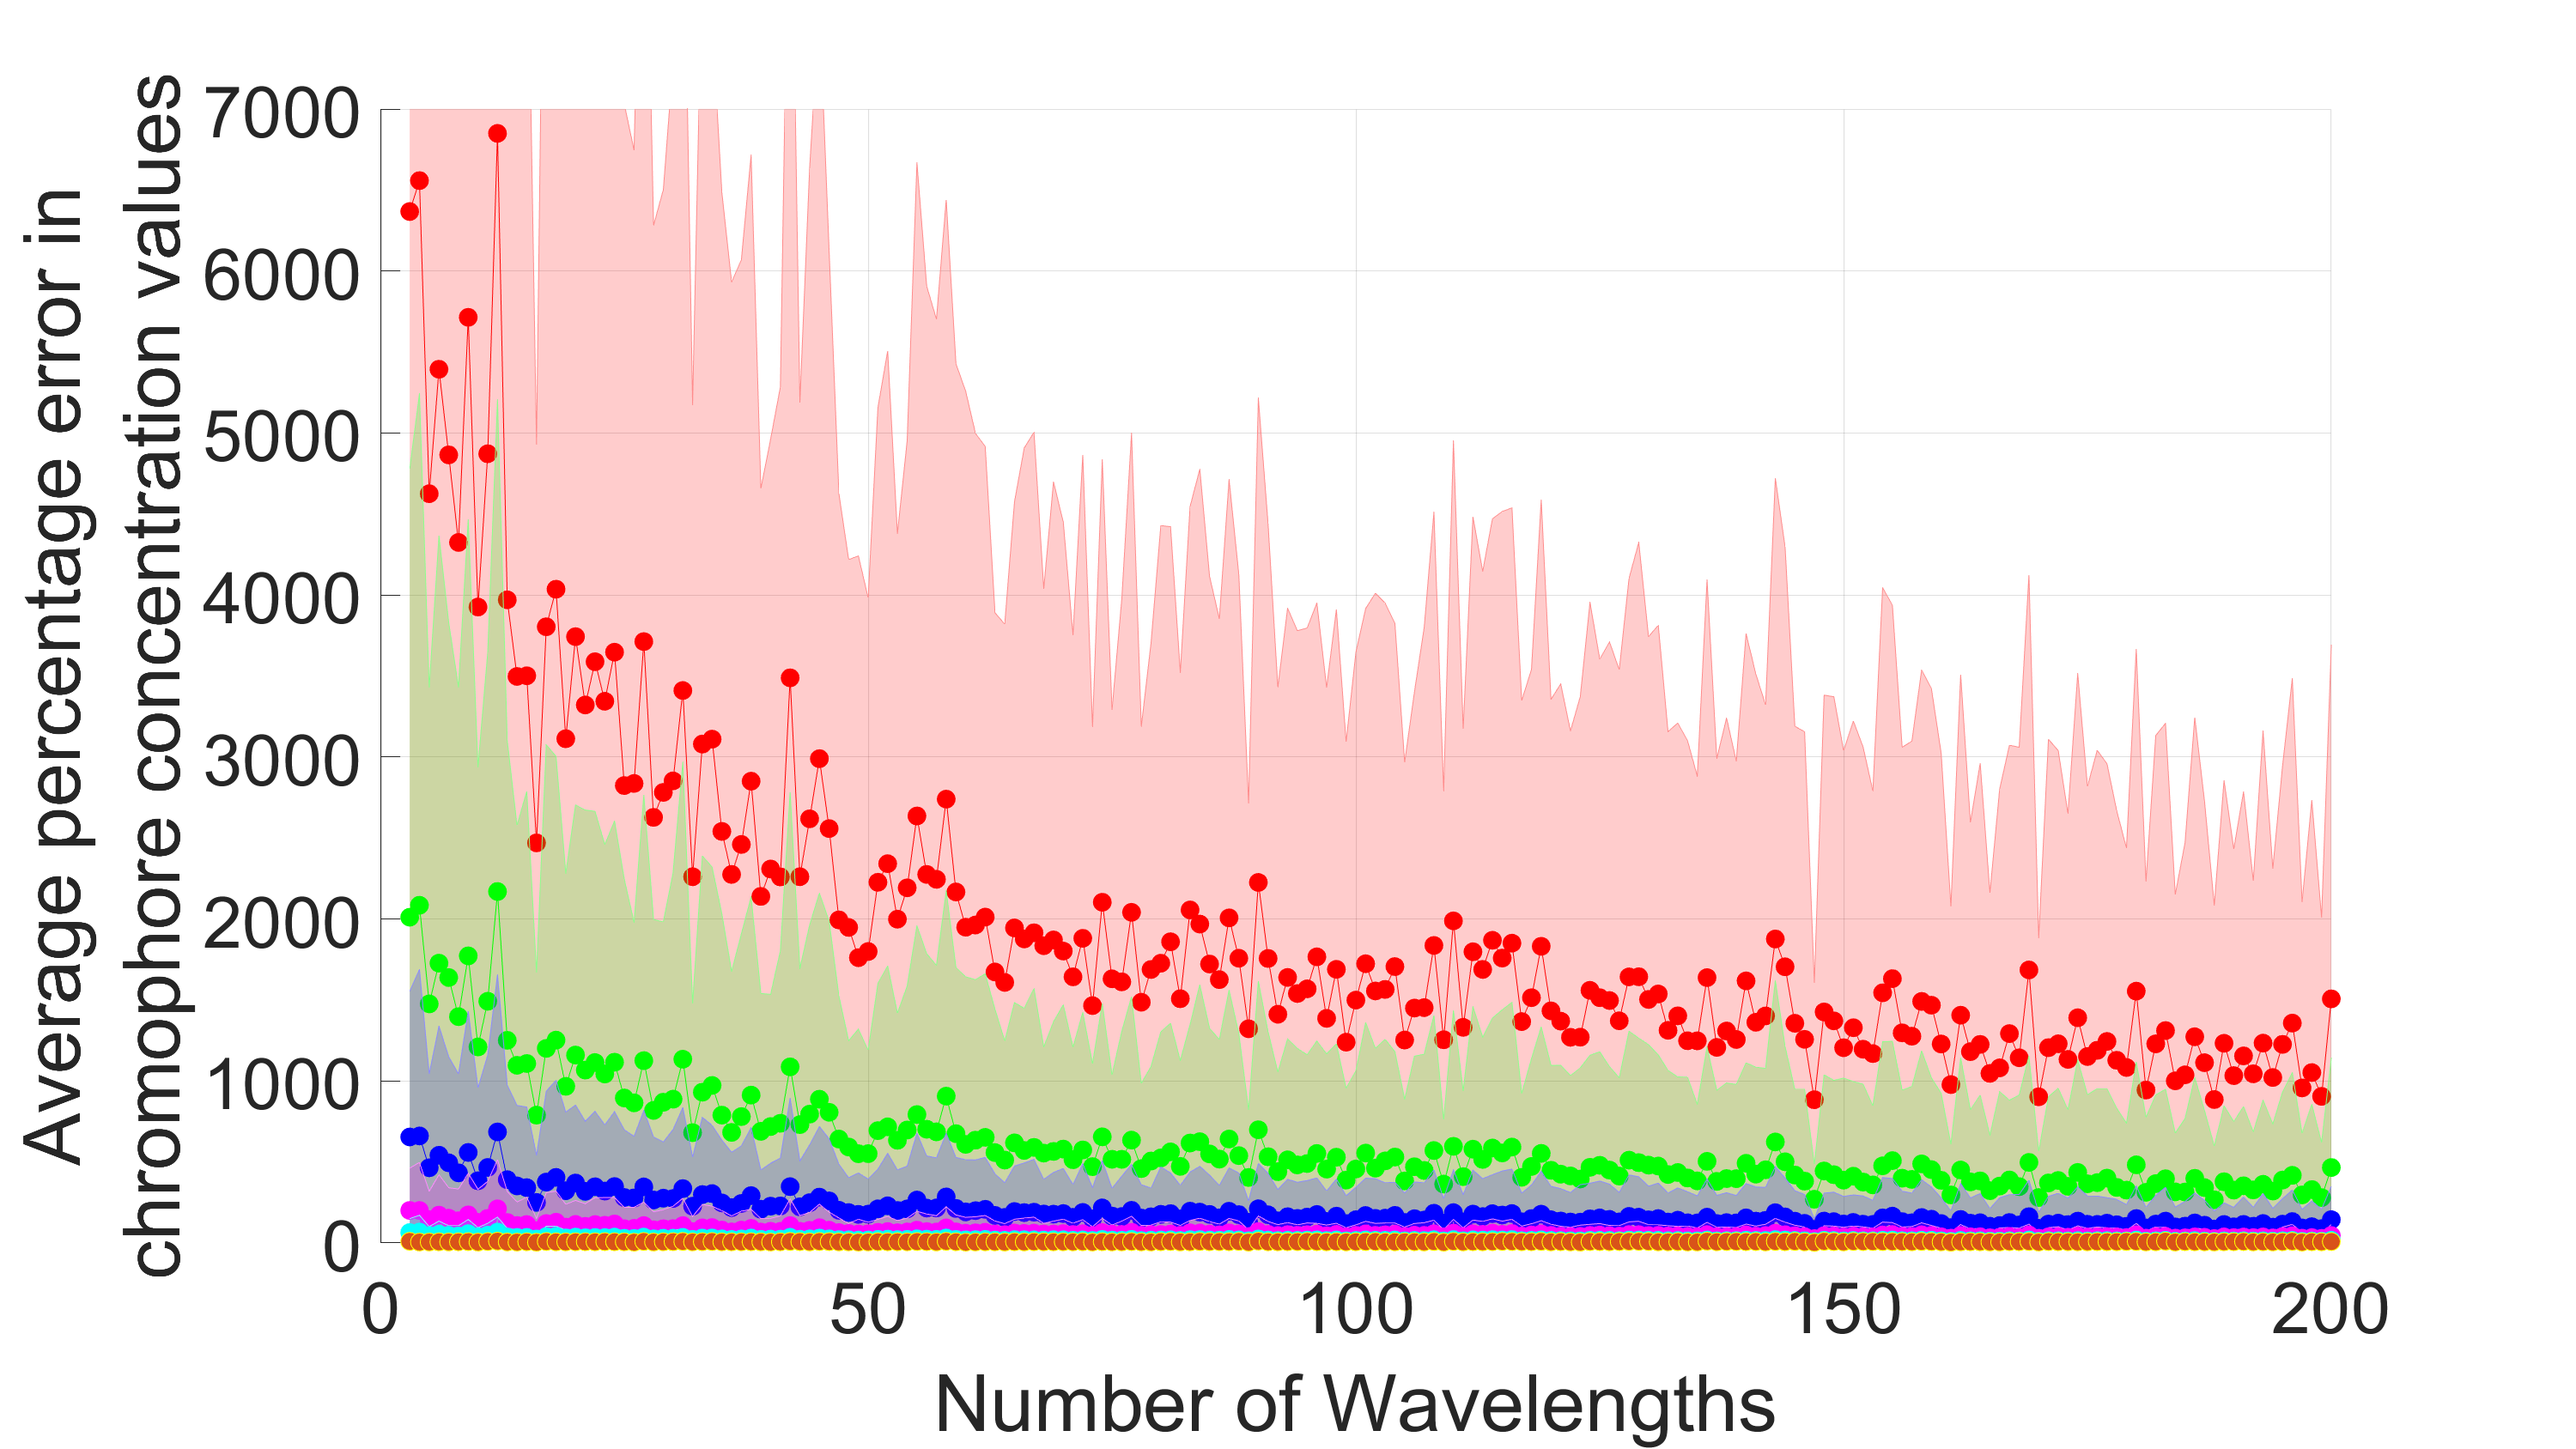
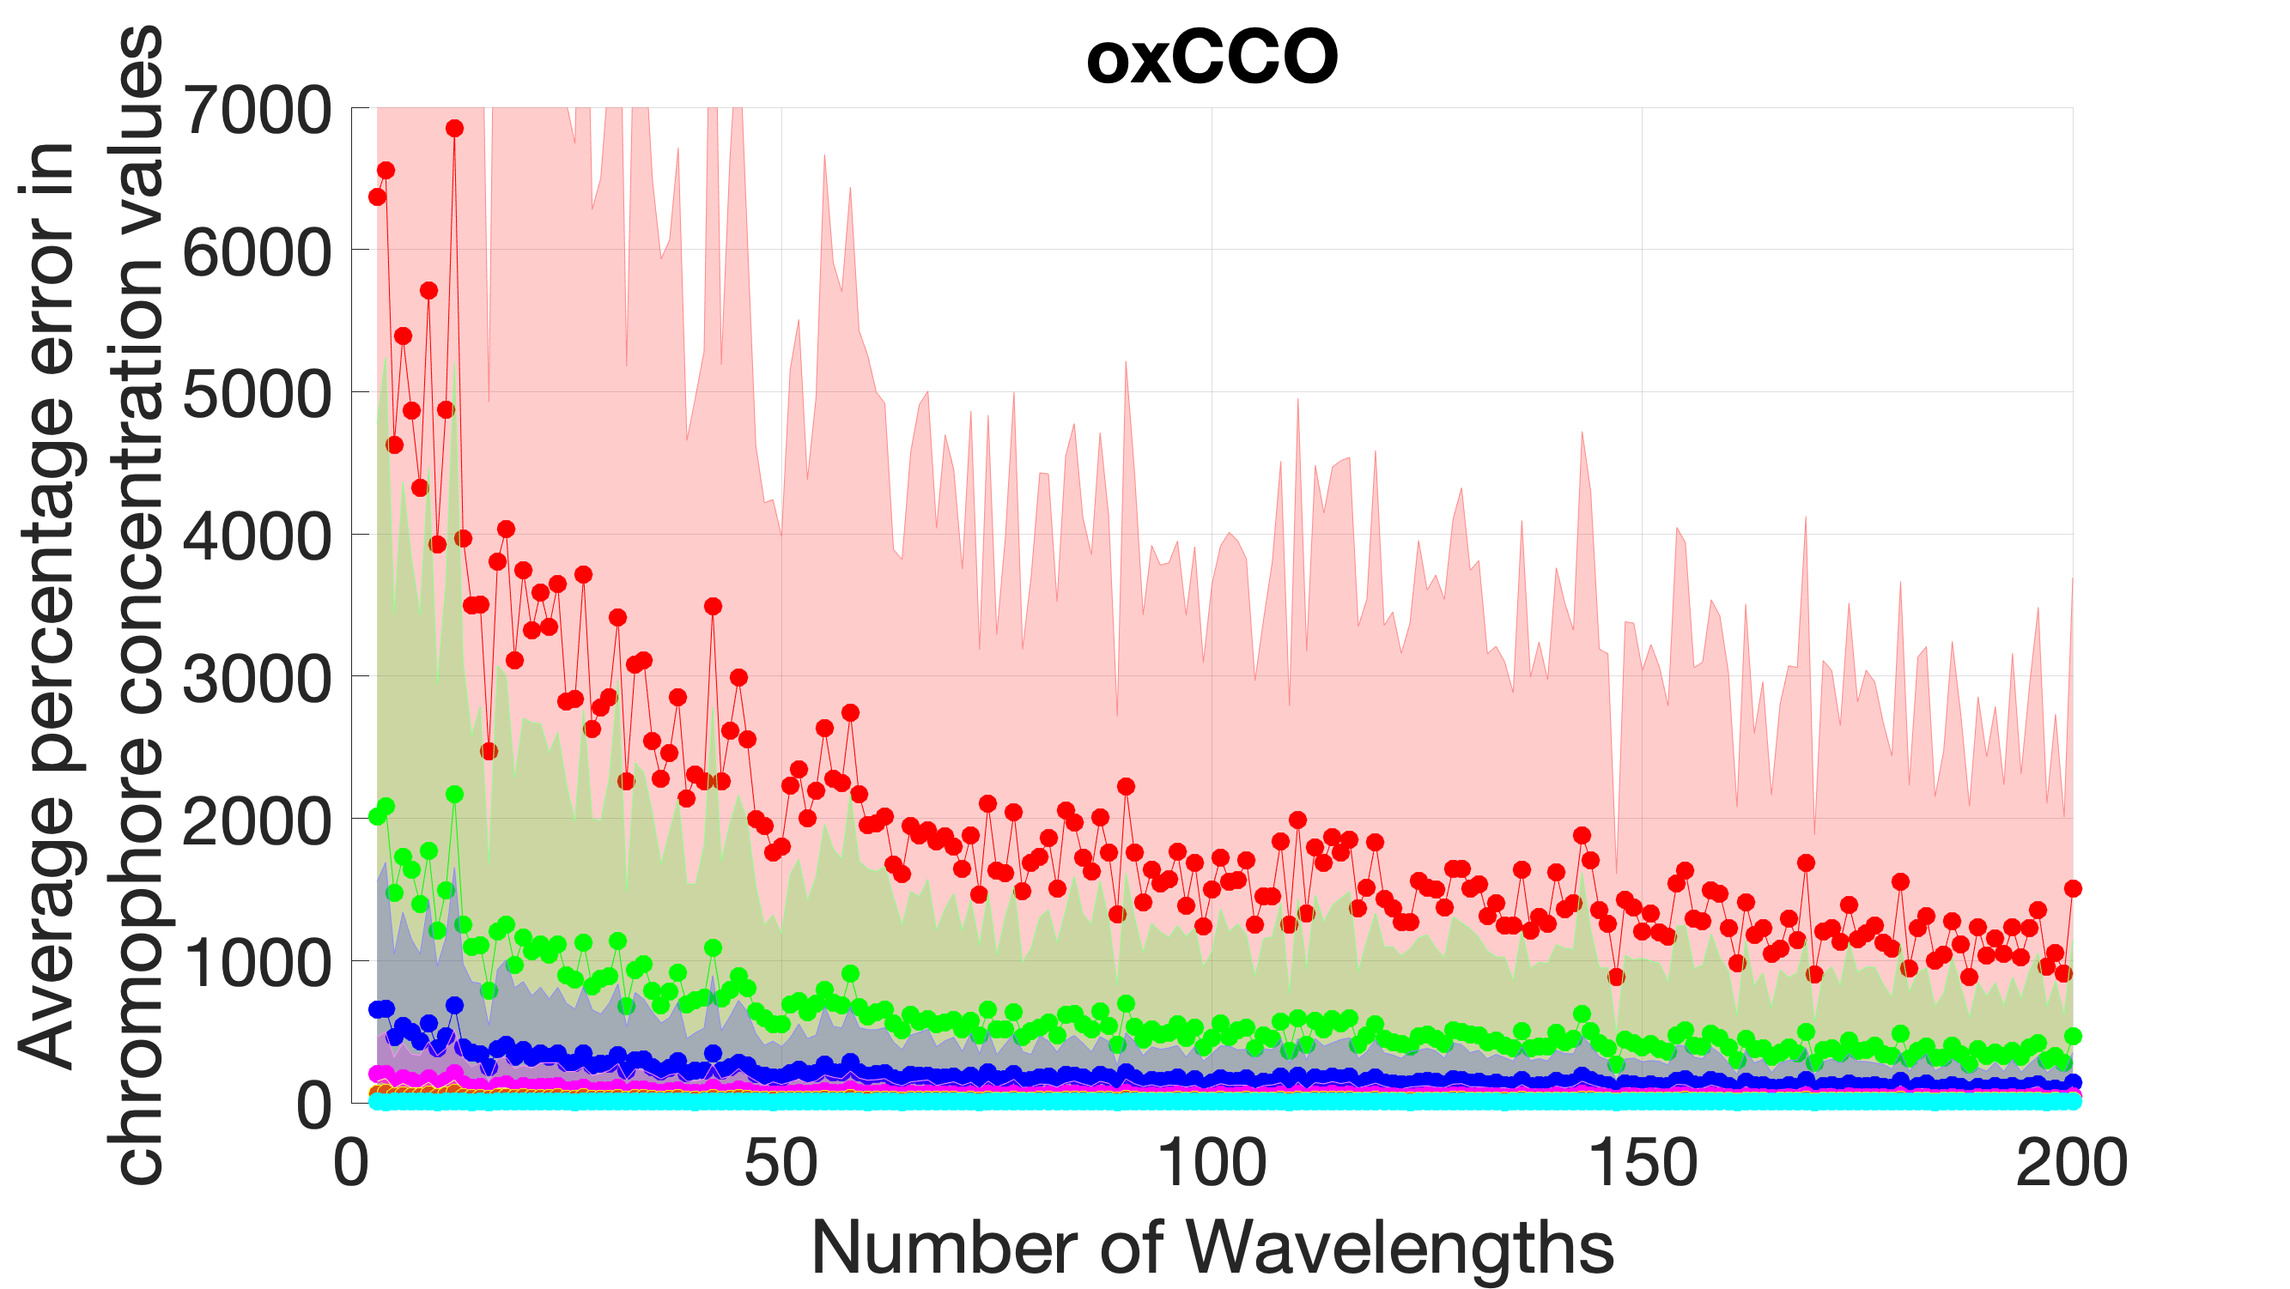
SNR and E plots

Changed region(s): [[0.0, 0.0306, 0.9336, 0.9188], [0.3423, 0.9494, 0.7158, 1.0], [0.4668, 0.0, 0.5913, 0.0919]]

diff --git a/Code replica/plot_SNR2.m b/Code replica/plot_SNR2.m
@@ -1,8 +1,8 @@
 %% Setup initial values
 
 % theFiles = dir('/Users/georginaleadley/Documents/GitHub/Diffusion-Simulations/Code replica/Cond_errors_3to50_best/*.mat');
-% theFiles = dir('/Users/georginaleadley/Documents/GitHub/Diffusion-Simulations/Code replica/Errors 1-200band with conv correct std/*.mat');
- theFiles = dir('\\ifs.eng.cam.ac.uk\users\gcl33\Documents\GitHub\Diffusion-Simulations\Code replica\Errors SNR concs1\*.mat');
+ theFiles = dir('/Users/georginaleadley/Documents/GitHub/Diffusion-Simulations/Code replica/Errors SNR concs1/*.mat');
+%  theFiles = dir('\\ifs.eng.cam.ac.uk\users\gcl33\Documents\GitHub\Diffusion-Simulations\Code replica\Errors SNR concs1\*.mat');
 
 %percent_vector = [0.01; 5; 10; 15];
 % percent_vector = 10;
@@ -40,34 +40,6 @@ for k = 1 : length(theFiles)
     end
 end
 
-% for w = 1:length(conc_to_analyse)
-%     HbO_conc(w) = conc_to_analyse{w}(1);
-%     HbR_conc(w) = conc_to_analyse{w}(2);
-%     CCO_conc(w) = conc_to_analyse{w}(3);
-%     HbO_conc_change(w) = HbO_conc(w) - 56;
-%     HbR_conc_change(w) = HbR_conc(w) - 24;
-%     CCO_conc_change(w) = CCO_conc(w) - 4.9;
-% end
-
-
-% FigH = figure('Position', get(0, 'Screensize'));
-% F = getframe(FigH);
-% imwrite(F.cdata, 'Comparing best combos 3-50wav systems ten percent parameter error.png', 'png')
-% plot(xvalues,change_wavs_HbO_zero_error(:,3),std_wavs_HbO_zero_error(:,3),std_wavs_HbO_zero_error(:,3),'rx-','MarkerSize',10,'LineWidth',1.8)
-% hold on
-% errorbar(xvalues,change_wavs_HbR_zero_error(:,3),std_wavs_HbR_zero_error(:,3),std_wavs_HbR_zero_error(:,3),'bx-','MarkerSize',10,'LineWidth',1.8)
-% errorbar(xvalues,change_wavs_CCO_zero_error(:,3),std_wavs_CCO_zero_error(:,3),std_wavs_CCO_zero_error(:,3),'gx-','MarkerSize',10,'LineWidth',1.8)
-% grid on
-% ax = gca;
-% ax.FontSize = 20;
-% %xlim([20 50]);
-% legend('HbO','HbR','CCO','Location','Best');
-% xlabel('Number of wavelengths');
-% ylabel('Average percentage error in chromophore concentration values');
-% %title({'Comparing 5-wavelength systems with increasing bandwidth and fifteen percent error in DPF and E'});
-% saveas(gcf,'Comparing best combos 3-50wav systems ten percent parameter error.png')
-
-
 
 FigH = figure('Position', get(0, 'Screensize'));
 F = getframe(FigH);
@@ -78,19 +50,66 @@ hold on
 shadedErrorBar(xvalues,change_wavs_CCO_zero_error(:,2),std_wavs_CCO_zero_error(:,2),'lineProps',{'g-o','markerfacecolor','g','markersize',10})
 shadedErrorBar(xvalues,change_wavs_CCO_zero_error(:,3),std_wavs_CCO_zero_error(:,3),'lineProps',{'b-o','markerfacecolor','b','markersize',10})
 shadedErrorBar(xvalues,change_wavs_CCO_zero_error(:,4),std_wavs_CCO_zero_error(:,4),'lineProps',{'m-o','markerfacecolor','m','markersize',10})
-shadedErrorBar(xvalues,change_wavs_CCO_zero_error(:,5),std_wavs_CCO_zero_error(:,5),'lineProps',{'c-o','markerfacecolor','c','markersize',10})
-shadedErrorBar(xvalues,change_wavs_CCO_zero_error(:,6),std_wavs_CCO_zero_error(:,6),'lineProps',{'y-o','markerfacecolor',[0.8500 0.3250 0.0980],'markersize',10})
+shadedErrorBar(xvalues,change_wavs_CCO_zero_error(:,5),std_wavs_CCO_zero_error(:,5),'lineProps',{'y-o','markerfacecolor',[0.8500 0.3250 0.0980],'markersize',10})
+shadedErrorBar(xvalues,change_wavs_CCO_zero_error(:,6),std_wavs_CCO_zero_error(:,6),'lineProps',{'c-o','markerfacecolor','c','markersize',10})
 
 %shadedErrorBar(xvalues,change_wavs_HbO_zero_error(:,3),std_wavs_HbO_zero_error(:,3),'lineProps',{'r-o','markerfacecolor','r','markersize',10})
 grid on
 ax = gca;
-ax.FontSize = 40;
+ax.FontSize = 38;
 %xlim([0 200]);
 ylim([0 7000]);
-%legend('oxCCO','HbR','HbO','Location','Best');
+%legend('SNR 20','SNR 30','SNR 40','SNR 50','SNR 60','SNR 100','Location','Best');
 xlabel('Number of Wavelengths');
 ylabel({'Average percentage error in', 'chromophore concentration values'});
-%title({'Comparing 5-wavelength systems with increasing bandwidth and fifteen percent error in DPF and E'});
+title({'oxCCO'});
 saveas(gcf,'Comparing 3-200 wavs different SNRs concs1 CCO.png')
 
 
+FigH = figure('Position', get(0, 'Screensize'));
+F = getframe(FigH);
+imwrite(F.cdata, 'Comparing 3-200 wavs different SNRs concs1 HbO.png', 'png')
+shadedErrorBar(xvalues,change_wavs_HbO_zero_error(:,1),std_wavs_HbO_zero_error(:,1),'lineProps',{'r-o','markerfacecolor','r','markersize',10})
+%shadedErrorBar(xvalues,change_wavs_HbO_zero_error(:,3),std_wavs_HbO_zero_error(:,3),'rx-','MarkerSize',10,'LineWidth',1.8)
+hold on
+shadedErrorBar(xvalues,change_wavs_HbO_zero_error(:,2),std_wavs_HbO_zero_error(:,2),'lineProps',{'g-o','markerfacecolor','g','markersize',10})
+shadedErrorBar(xvalues,change_wavs_HbO_zero_error(:,3),std_wavs_HbO_zero_error(:,3),'lineProps',{'b-o','markerfacecolor','b','markersize',10})
+shadedErrorBar(xvalues,change_wavs_HbO_zero_error(:,4),std_wavs_HbO_zero_error(:,4),'lineProps',{'m-o','markerfacecolor','m','markersize',10})
+shadedErrorBar(xvalues,change_wavs_HbO_zero_error(:,5),std_wavs_HbO_zero_error(:,5),'lineProps',{'y-o','markerfacecolor',[0.8500 0.3250 0.0980],'markersize',10})
+shadedErrorBar(xvalues,change_wavs_HbO_zero_error(:,6),std_wavs_HbO_zero_error(:,6),'lineProps',{'c-o','markerfacecolor','c','markersize',10})
+
+%shadedErrorBar(xvalues,change_wavs_HbO_zero_error(:,3),std_wavs_HbO_zero_error(:,3),'lineProps',{'r-o','markerfacecolor','r','markersize',10})
+grid on
+ax = gca;
+ax.FontSize = 38;
+%xlim([0 200]);
+ylim([0 5000]);
+legend('SNR 20','SNR 30','SNR 40','SNR 50','SNR 60','SNR 100','Location','Best');
+xlabel('Number of Wavelengths');
+ylabel({'Average percentage error in', 'chromophore concentration values'});
+title({'HbO'});
+saveas(gcf,'Comparing 3-200 wavs different SNRs concs1 HbO.png')
+
+FigH = figure('Position', get(0, 'Screensize'));
+F = getframe(FigH);
+imwrite(F.cdata, 'Comparing 3-200 wavs different SNRs concs1 HbR.png', 'png')
+shadedErrorBar(xvalues,change_wavs_HbR_zero_error(:,1),std_wavs_HbR_zero_error(:,1),'lineProps',{'r-o','markerfacecolor','r','markersize',10})
+%shadedErrorBar(xvalues,change_wavs_HbR_zero_error(:,3),std_wavs_HbR_zero_error(:,3),'rx-','MarkerSize',10,'LineWidth',1.8)
+hold on
+shadedErrorBar(xvalues,change_wavs_HbR_zero_error(:,2),std_wavs_HbR_zero_error(:,2),'lineProps',{'g-o','markerfacecolor','g','markersize',10})
+shadedErrorBar(xvalues,change_wavs_HbR_zero_error(:,3),std_wavs_HbR_zero_error(:,3),'lineProps',{'b-o','markerfacecolor','b','markersize',10})
+shadedErrorBar(xvalues,change_wavs_HbR_zero_error(:,4),std_wavs_HbR_zero_error(:,4),'lineProps',{'m-o','markerfacecolor','m','markersize',10})
+shadedErrorBar(xvalues,change_wavs_HbR_zero_error(:,5),std_wavs_HbR_zero_error(:,5),'lineProps',{'y-o','markerfacecolor',[0.8500 0.3250 0.0980],'markersize',10})
+shadedErrorBar(xvalues,change_wavs_HbR_zero_error(:,6),std_wavs_HbR_zero_error(:,6),'lineProps',{'c-o','markerfacecolor','c','markersize',10})
+
+%shadedErrorBar(xvalues,change_wavs_HbR_zero_error(:,3),std_wavs_HbR_zero_error(:,3),'lineProps',{'r-o','markerfacecolor','r','markersize',10})
+grid on
+ax = gca;
+ax.FontSize = 38;
+%xlim([0 200]);
+ylim([0 3000]);
+%legend('SNR 20','SNR 30','SNR 40','SNR 50','SNR 60','SNR 100','Location','Best');
+xlabel('Number of Wavelengths');
+ylabel({'Average percentage error in', 'chromophore concentration values'});
+title({'HbR'});
+saveas(gcf,'Comparing 3-200 wavs different SNRs concs1 HbR.png')

diff --git a/Code replica/find_bitepoint_clean.m b/Code replica/find_bitepoint_clean.m
@@ -74,17 +74,17 @@ for nwavs = 3:200
         %% Change concentrations
 
         % Induce random changes
-        % Change HbO between +1.5 and -1.5 uM
-        HbO_pert = 0.01:0.01:3.01; % define the numbers
-        HbO_change = 1.51 - HbO_pert(randi([1,numel(HbO_pert)]));
-
-        % Change HbR between +1 and -1 uM
-        HbR_pert = 0.01:0.01:2.01; % define the numbers
-        HbR_change = 1.01 - HbR_pert(randi([1,numel(HbR_pert)]));
-
-        % Change CCO between +0.3 and -0.3 uM
-        CCO_pert = 0.01:0.01:0.61; % define the numbers
-        CCO_change = 0.31 - CCO_pert(randi([1,numel(CCO_pert)])); 
+%         % Change HbO between +1.5 and -1.5 uM
+%         HbO_pert = 0.01:0.01:3.01; % define the numbers
+%         HbO_change = 1.51 - HbO_pert(randi([1,numel(HbO_pert)]));
+% 
+%         % Change HbR between +1 and -1 uM
+%         HbR_pert = 0.01:0.01:2.01; % define the numbers
+%         HbR_change = 1.01 - HbR_pert(randi([1,numel(HbR_pert)]));
+% 
+%         % Change CCO between +0.3 and -0.3 uM
+%         CCO_pert = 0.01:0.01:0.61; % define the numbers
+%         CCO_change = 0.31 - CCO_pert(randi([1,numel(CCO_pert)])); 
 
 %         % !!! Changed these values to reflect a greater chromophore change
 %         % Change HbO between +10 and - uM
@@ -98,6 +98,19 @@ for nwavs = 3:200
 %         % Change CCO between +3 and -3 uM
 %         CCO_pert = 0.01:0.01:6.01; % define the numbers
 %         CCO_change = 3.01 - CCO_pert(randi([1,numel(CCO_pert)]));
+
+        % !!! Third condition
+        % Change HbO between +6 and -6 uM
+        HbO_pert = 0.01:0.01:12.01; % define the numbers
+        HbO_change = 6.01 - HbO_pert(randi([1,numel(HbO_pert)]));
+
+        % Change HbR between +4 and -4 uM
+        HbR_pert = 0.01:0.01:8.01; % define the numbers
+        HbR_change = 4.01 - HbR_pert(randi([1,numel(HbR_pert)]));
+
+        % Change CCO between +1.5 and -1.5 uM
+        CCO_pert = 0.01:0.01:3.01; % define the numbers
+        CCO_change = 1.51 - CCO_pert(randi([1,numel(CCO_pert)])); 
 
         W(2) = 0.8;    %Water fraction
         L1(2) = 0.116;  %Lipid fraction
@@ -1023,7 +1036,7 @@ for nwavs = 3:200
     end
 
      num_wavs = length(x);
-    save(['ave_error_',num2str(num_wavs),'_3to200wavelengths_SNR50_origDPF_perfectE_SNRvals_concs1 '],'ave_pert_error_LEDSNR50','final_std_val_LEDSNR50','ave_perfectE_error','std_perfectE','ave_error_SNR','stand_dev_error_SNR')
+    save(['ave_error_',num2str(num_wavs),'_3to200wavelengths_SNR50_origDPF_perfectE_SNRvals_concs3 '],'ave_pert_error_LEDSNR50','final_std_val_LEDSNR50','ave_perfectE_error','std_perfectE','ave_error_SNR','stand_dev_error_SNR')
     
     clear all;
     
